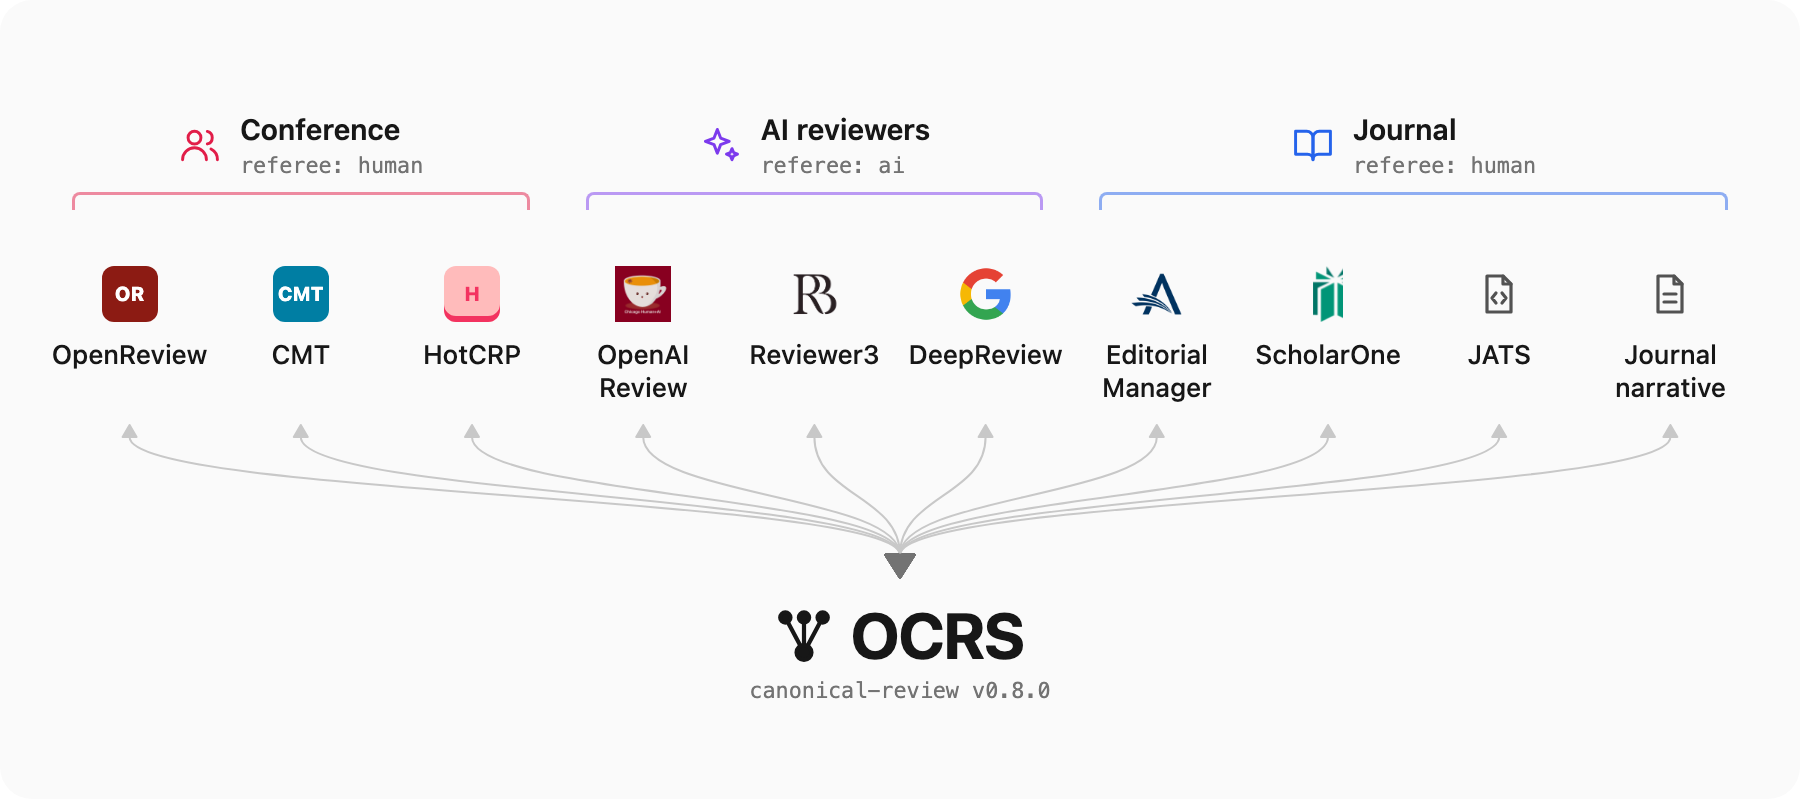
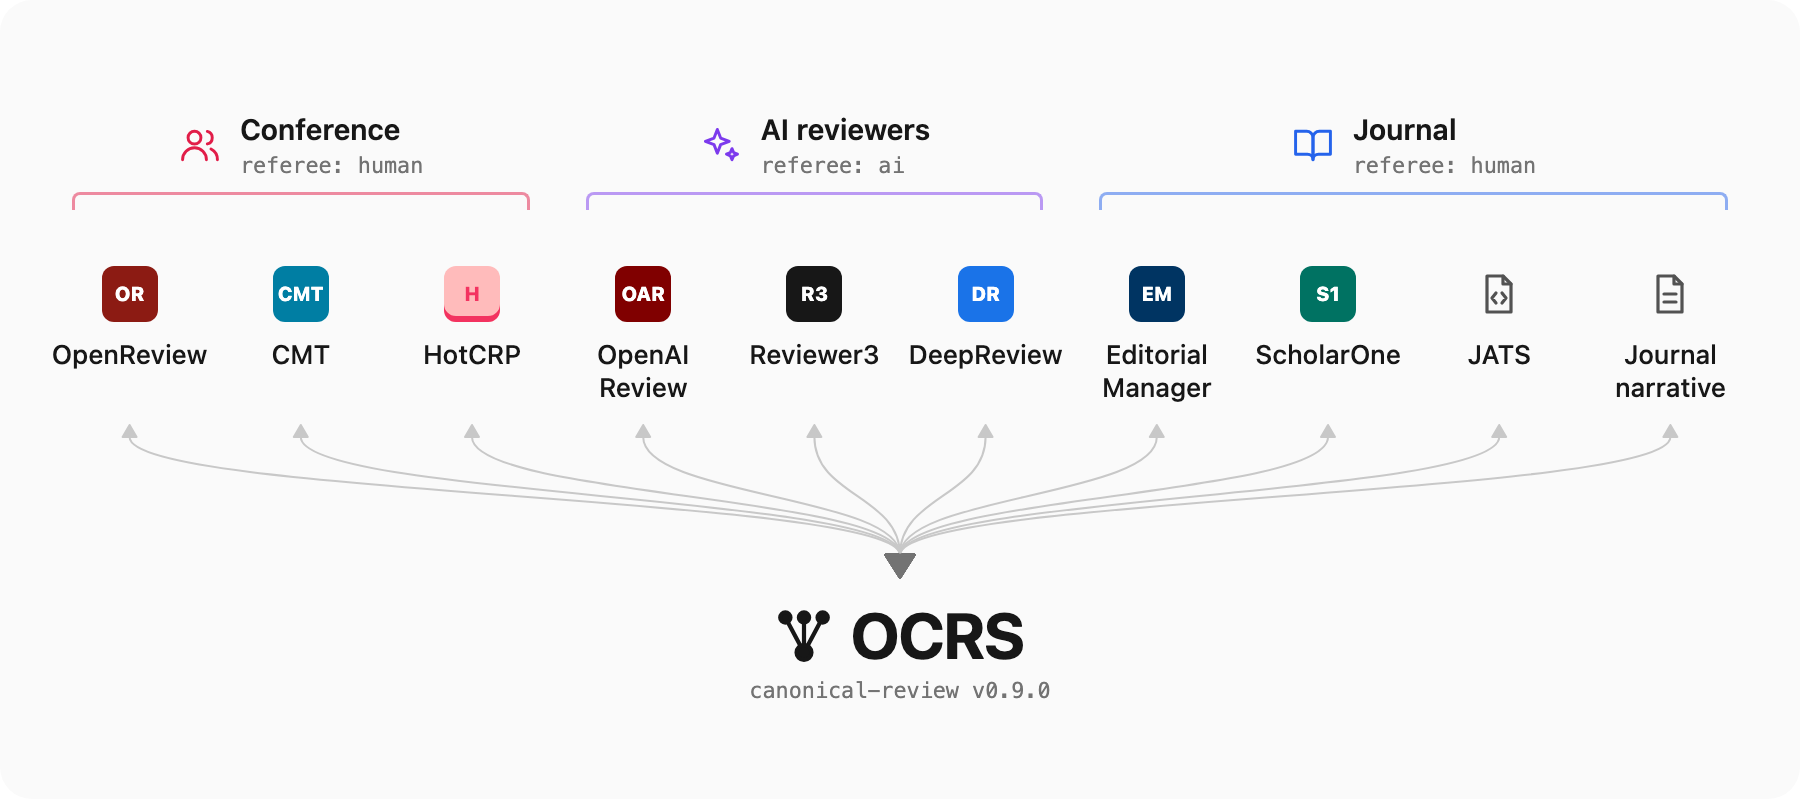
Show the review-flow diagram for 0.9.0 (#17)
## Summary

The README shows the review-flow diagram again
([`site/review-flow.png`](../blob/claude/readme-figure-0-9-0-fcaef4/site/review-flow.png)),
now labelled OCRS 0.9.0, under **Supported Systems**.

So each of these is shown, like OpenReview, CMT and HotCRP already were,
by its name and its initials in a color from its site:

| System | Badge | Color | Source |
|---|---|---|---|
| OpenAIReview | OAR | `#800000` | `--accent` on openaireview.github.io
|
| Reviewer3 | R3 | `#171717` | `--primary` on reviewer3.com |
| DeepReview | DR | `#1a73e8` | Google Research post announcing
DeepReview |
| Editorial Manager | EM | `#003462` | ariessys.com navy |
| ScholarOne | S1 | `#007262` | Silverchair's ScholarOne page |

## Changes

- `scripts/generate_docs.py`: badges replace the logo images (the docs
homepage changes too); the unused image CSS is gone.
- `site/logos/` is removed; 
- `THIRD_PARTY_NOTICES.md`, `NOTICE`, the README license paragraph,
`MANIFEST.in` and the link check no longer refer to the logos. The
diagram now ships in the source archive.
- `CHANGELOG.md`: a line under 0.9.0.
- The PNG is a 2× headless-Chrome capture of the generated homepage's
diagram (900×400 CSS px, reduced motion), like the previous one.

## Testing

- `pytest`: 1879 passed
- `ruff check` / `ruff format --check`: clean
- `uv build` + `scripts/check_distribution.py`: passes;
`site/review-flow.png` is in the sdist, no logos.

🤖 Generated with [Claude Code](https://claude.com/claude-code)

diff --git a/scripts/generate_docs.py b/scripts/generate_docs.py
@@ -21,10 +21,6 @@ def stroke_icon(paths: str) -> str:
     )
 
 
-def logo(src: str) -> str:
-    return f'<img src="{src}" alt="">'
-
-
 def badge(text: str, background: str, color: str = "#fff", underline: str = "") -> str:
     """A square of a site's own colors, for a system with no logo that works at icon size."""
     style = f"background: {background}; color: {color}"
@@ -33,27 +29,19 @@ def badge(text: str, background: str, color: str = "#fff", underline: str = "") 
     return f'<span class="site-badge" style="{style}">{text}</span>'
 
 
-# Google publishes no Deep Review logo, so DeepReview shows Google's, from Google's own CDN.
-GOOGLE_LOGO = "https://www.gstatic.com/images/branding/product/2x/googleg_48dp.png"
-
 # The review sources drawn mapping into OCRS, in order: registry key, name, type, icon. A source
-# with an exporter in the registry also gets an arrow back. Logos are in site/logos/. OpenReview,
-# CMT and HotCRP have no logo legible at icon size, so their icons are in their sites' own colors;
-# ScholarOne's is the book cropped from its wordmark.
+# with an exporter in the registry also gets an arrow back. The diagram shows a system's logo
+# only when its owner has said it may be used; none has, so each system's icon is its initials
+# in a color from its site's stylesheet (DeepReview's from the Google Research page announcing it).
 SOURCES = [
     ("openreview", "OpenReview", "conference", badge("OR", "#8c1b13")),
     ("cmt", "CMT", "conference", badge("CMT", "#007ea3")),
     ("hotcrp", "HotCRP", "conference", badge("H", "#ffbbbb", "#f33360", "#f33360")),
-    ("openaireview", "OpenAI<wbr>Review", "ai", logo("logos/openaireview.png")),
-    ("reviewer3", "Reviewer3", "ai", logo("logos/reviewer3.png")),
-    ("deepreview", "DeepReview", "ai", logo(GOOGLE_LOGO)),
-    ("editorialmanager", "Editorial Manager", "journal", logo("logos/editorialmanager.png")),
-    (
-        "scholarone",
-        "ScholarOne",
-        "journal",
-        f'<span class="crop">{logo("logos/scholarone.png")}</span>',
-    ),
+    ("openaireview", "OpenAI<wbr>Review", "ai", badge("OAR", "#800000")),
+    ("reviewer3", "Reviewer3", "ai", badge("R3", "#171717")),
+    ("deepreview", "DeepReview", "ai", badge("DR", "#1a73e8")),
+    ("editorialmanager", "Editorial Manager", "journal", badge("EM", "#003462")),
+    ("scholarone", "ScholarOne", "journal", badge("S1", "#007262")),
     (
         "jats",
         "JATS",
@@ -348,21 +336,6 @@ def create_landing_page(docs_dir: Path, versions: list[str]):
             place-items: center;
             margin-bottom: 0.55rem;
             color: #525252;
-        }
-        .node-icon img {
-            display: block;
-            max-width: 28px;
-            max-height: 28px;
-            mix-blend-mode: multiply;
-        }
-        .node-icon .crop {
-            width: 15px;
-            height: 28px;
-            overflow: hidden;
-        }
-        .node-icon .crop img {
-            height: 28px;
-            max-width: none;
         }
         .site-badge {
             width: 28px;

diff --git a/README.md b/README.md
@@ -33,6 +33,10 @@ Science is entering an agentic era. AI agents now draft papers, run analyses and
 
 OCRS provides bidirectional mappers for converting between the canonical schema and various peer review platforms:
 
+<p align="center">
+  <img src="site/review-flow.png" width="800" alt="Reviews from conference systems (OpenReview, CMT, HotCRP), AI reviewers (OpenAIReview, Reviewer3, DeepReview) and journals (Editorial Manager, ScholarOne, JATS, journal narratives) all map to and from OCRS v0.9.0, shown as two-way arrows">
+</p>
+
 | System | Source (`from`) | Target (`to`) | Notes |
 |--------|:---------------:|:-------------:|-------|
 | **OpenReview** | Full | Full | Conference reviews with structured findings and metrics; also [a saved forum page](#reviews-from-a-saved-openreview-page) |
@@ -783,8 +787,8 @@ We welcome contributions! Please see [CONTRIBUTING.md](CONTRIBUTING.md) for guid
 ## License
 
 OCRS code, schemas, and original documentation use Apache License 2.0; see [LICENSE](LICENSE)
-and [NOTICE](NOTICE). Published review fixtures and source-system logos retain their own
-licenses and trademark rights, listed in [THIRD_PARTY_NOTICES.md](THIRD_PARTY_NOTICES.md).
+and [NOTICE](NOTICE). Published review fixtures retain their own licenses, and the names of
+supported systems remain their owners' trademarks, listed in [THIRD_PARTY_NOTICES.md](THIRD_PARTY_NOTICES.md).
 
 Report vulnerabilities privately as described in [SECURITY.md](SECURITY.md). Maintainers can
 find the release and hosting procedure in [RELEASING.md](RELEASING.md).

diff --git a/THIRD_PARTY_NOTICES.md b/THIRD_PARTY_NOTICES.md
@@ -42,12 +42,10 @@ does not imply that the vendor supplied or endorsed its contents.
 
 ## Brand assets
 
-The source-system images in `site/logos/` and the `site/review-flow.png` diagram identify
-supported formats on the documentation site. They remain the marks of their owners, are
-excluded from OCRS's Apache-2.0 grant, and are left out of the Python distributions. See the
-[asset inventory](site/logos/README.md) for the represented products and sources. The Google
-icon used by the generated site is loaded from Google's CDN; the static flow diagram also
-contains a rendering of that mark.
+OCRS shows another organization's logo only when that organization has said it may be used.
+None has yet, so the documentation site and the `site/review-flow.png` diagram show each
+supported system by its name and its initials in a color from its site. The names identify
+the formats OCRS reads and writes and remain their owners' trademarks.
 
 Valency's marks follow the organization's
 [trademark policy](https://github.com/valency-oss/.github/blob/main/TRADEMARK.md). No permission

diff --git a/CHANGELOG.md b/CHANGELOG.md
@@ -90,6 +90,9 @@ join `opinion.metric_refs`.
   precedence over retained legacy fields. Repeated reasons share one support link;
   empty legacy check notes round-trip without inventing text or a check verdict.
 - The package, versioned schema, examples, README and citation are updated together.
+- The review-flow diagram shows OCRS 0.9.0 and is back in the README. It names the supported
+  systems, with their initials in their sites' colors, instead of showing their logos, since
+  no owner has said its logo may be used; the logo files are removed.
 
 ## 0.8.0
 
